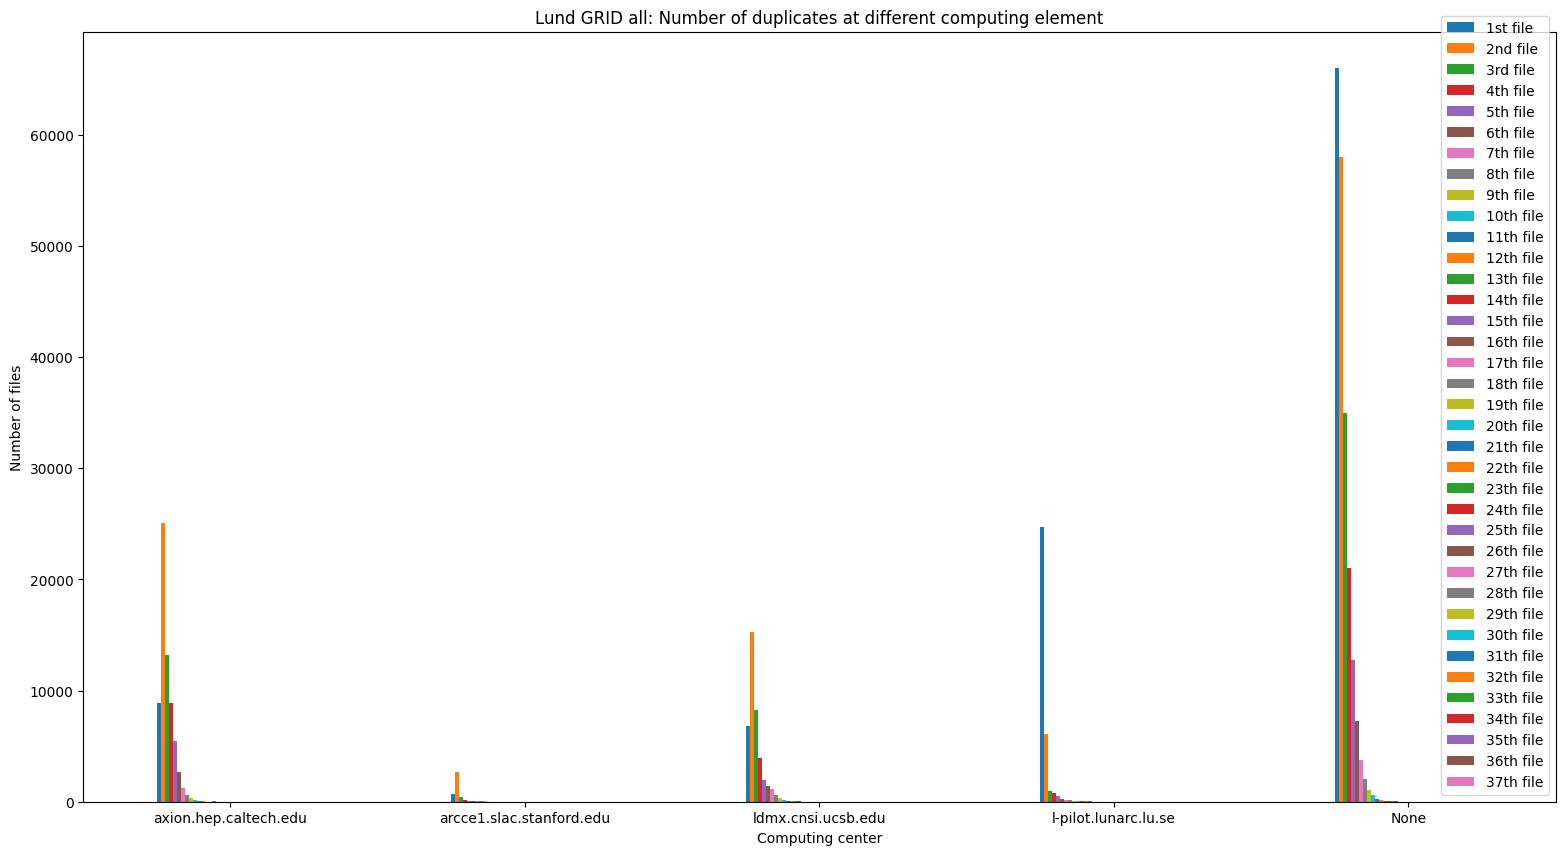
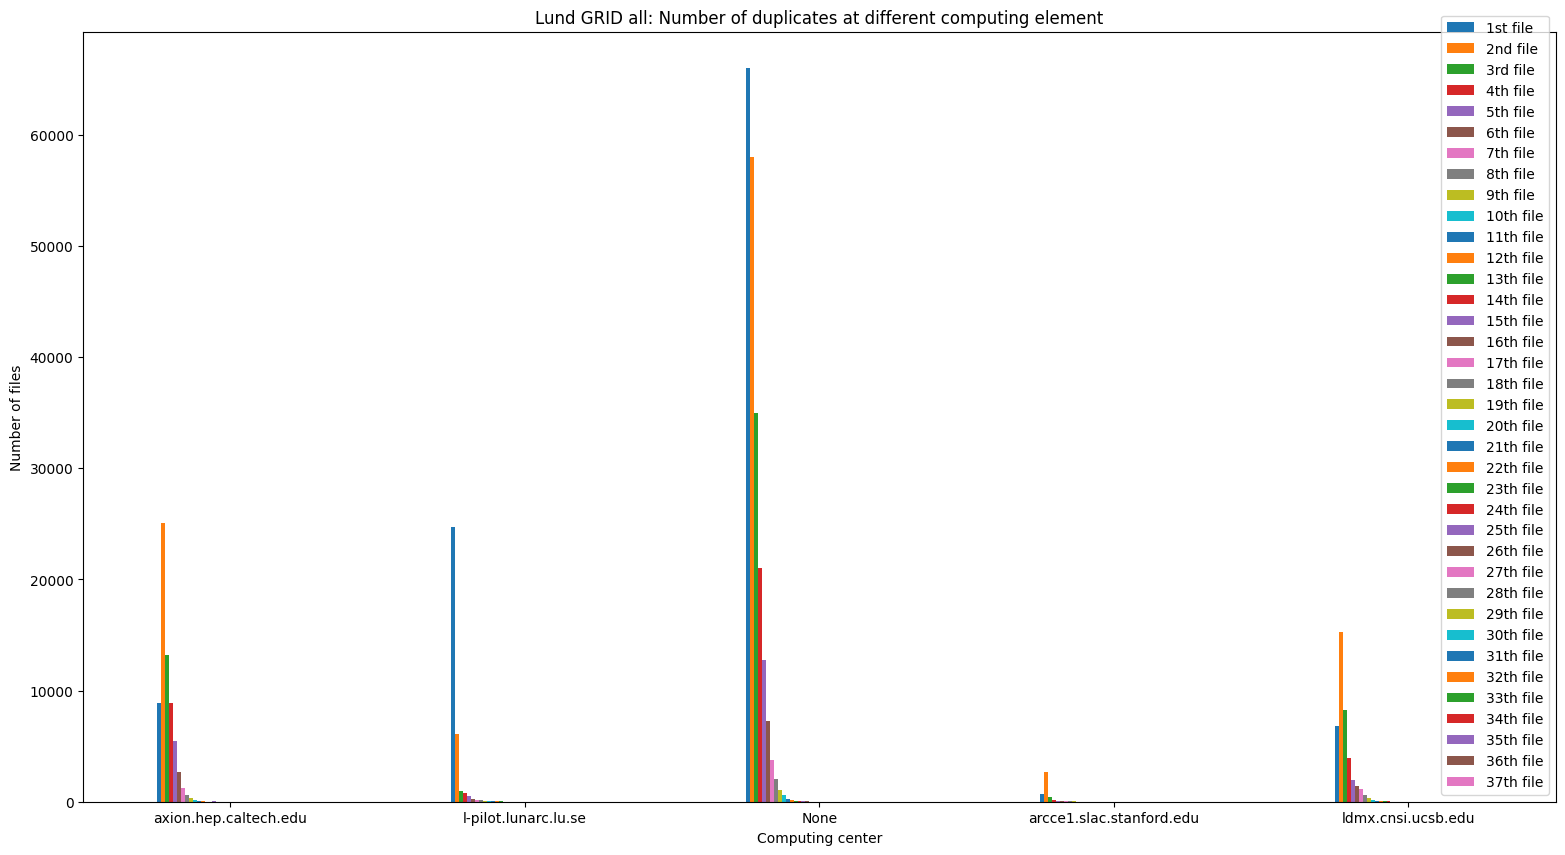
what

diff --git a/plot_bar_chart_of_all_duplicates.py b/plot_bar_chart_of_all_duplicates.py
@@ -11,9 +11,10 @@ from sqlalchemy import column
 duplicate_1={}
 duplicate_2={}
 not_a_duplicate={}
-name='SLAC_mc20_2.db'
+name='Lund_all.db'
 con = sl.connect('{}'.format(name))
 location_use=[]
+stuff111=[]
 number_of_duplicates=[]
 number_of_files=[]
 number_of_first_duplicates=[]
@@ -42,6 +43,7 @@ for row in con.execute('SELECT name FROM sqlite_master WHERE type = "table" ORDE
         if max_dup_number==None:
             pass
         else:
+            stuff111.append(row[0])
             #print(max_dup_number)
             number_of_duplicates.append(number_of_duplicates_indatabase)
             #print(max_number)
@@ -209,11 +211,28 @@ df.to_csv('figures/{}/bar-plot/number_of.csv'.format(name), index=True)
 print(name2)
 print("Number of files")
 print(sum(number_of_files))
+print(max(number_of_files))
 print("Number of duplicates")
 print(sum(number_of_duplicates))
+print(max(number_of_duplicates))
+number=number_of_duplicates.index(max(number_of_duplicates))
+
+print(stuff111[number])
+
+
+
 print("Number of files missing from Rucio")
 print(sum(number_of_missing_from_rucioc))
+
+
+print(max(number_of_missing_from_rucioc))
+
+number=number_of_missing_from_rucioc.index(max(number_of_missing_from_rucioc))
+
+print(stuff111[number])
+
 print("procentage of duplicates")
 print((sum(number_of_duplicates)/sum(number_of_files))*100)
+
 print("largest chain of duplicates")
 print(largest_dup_chain)
